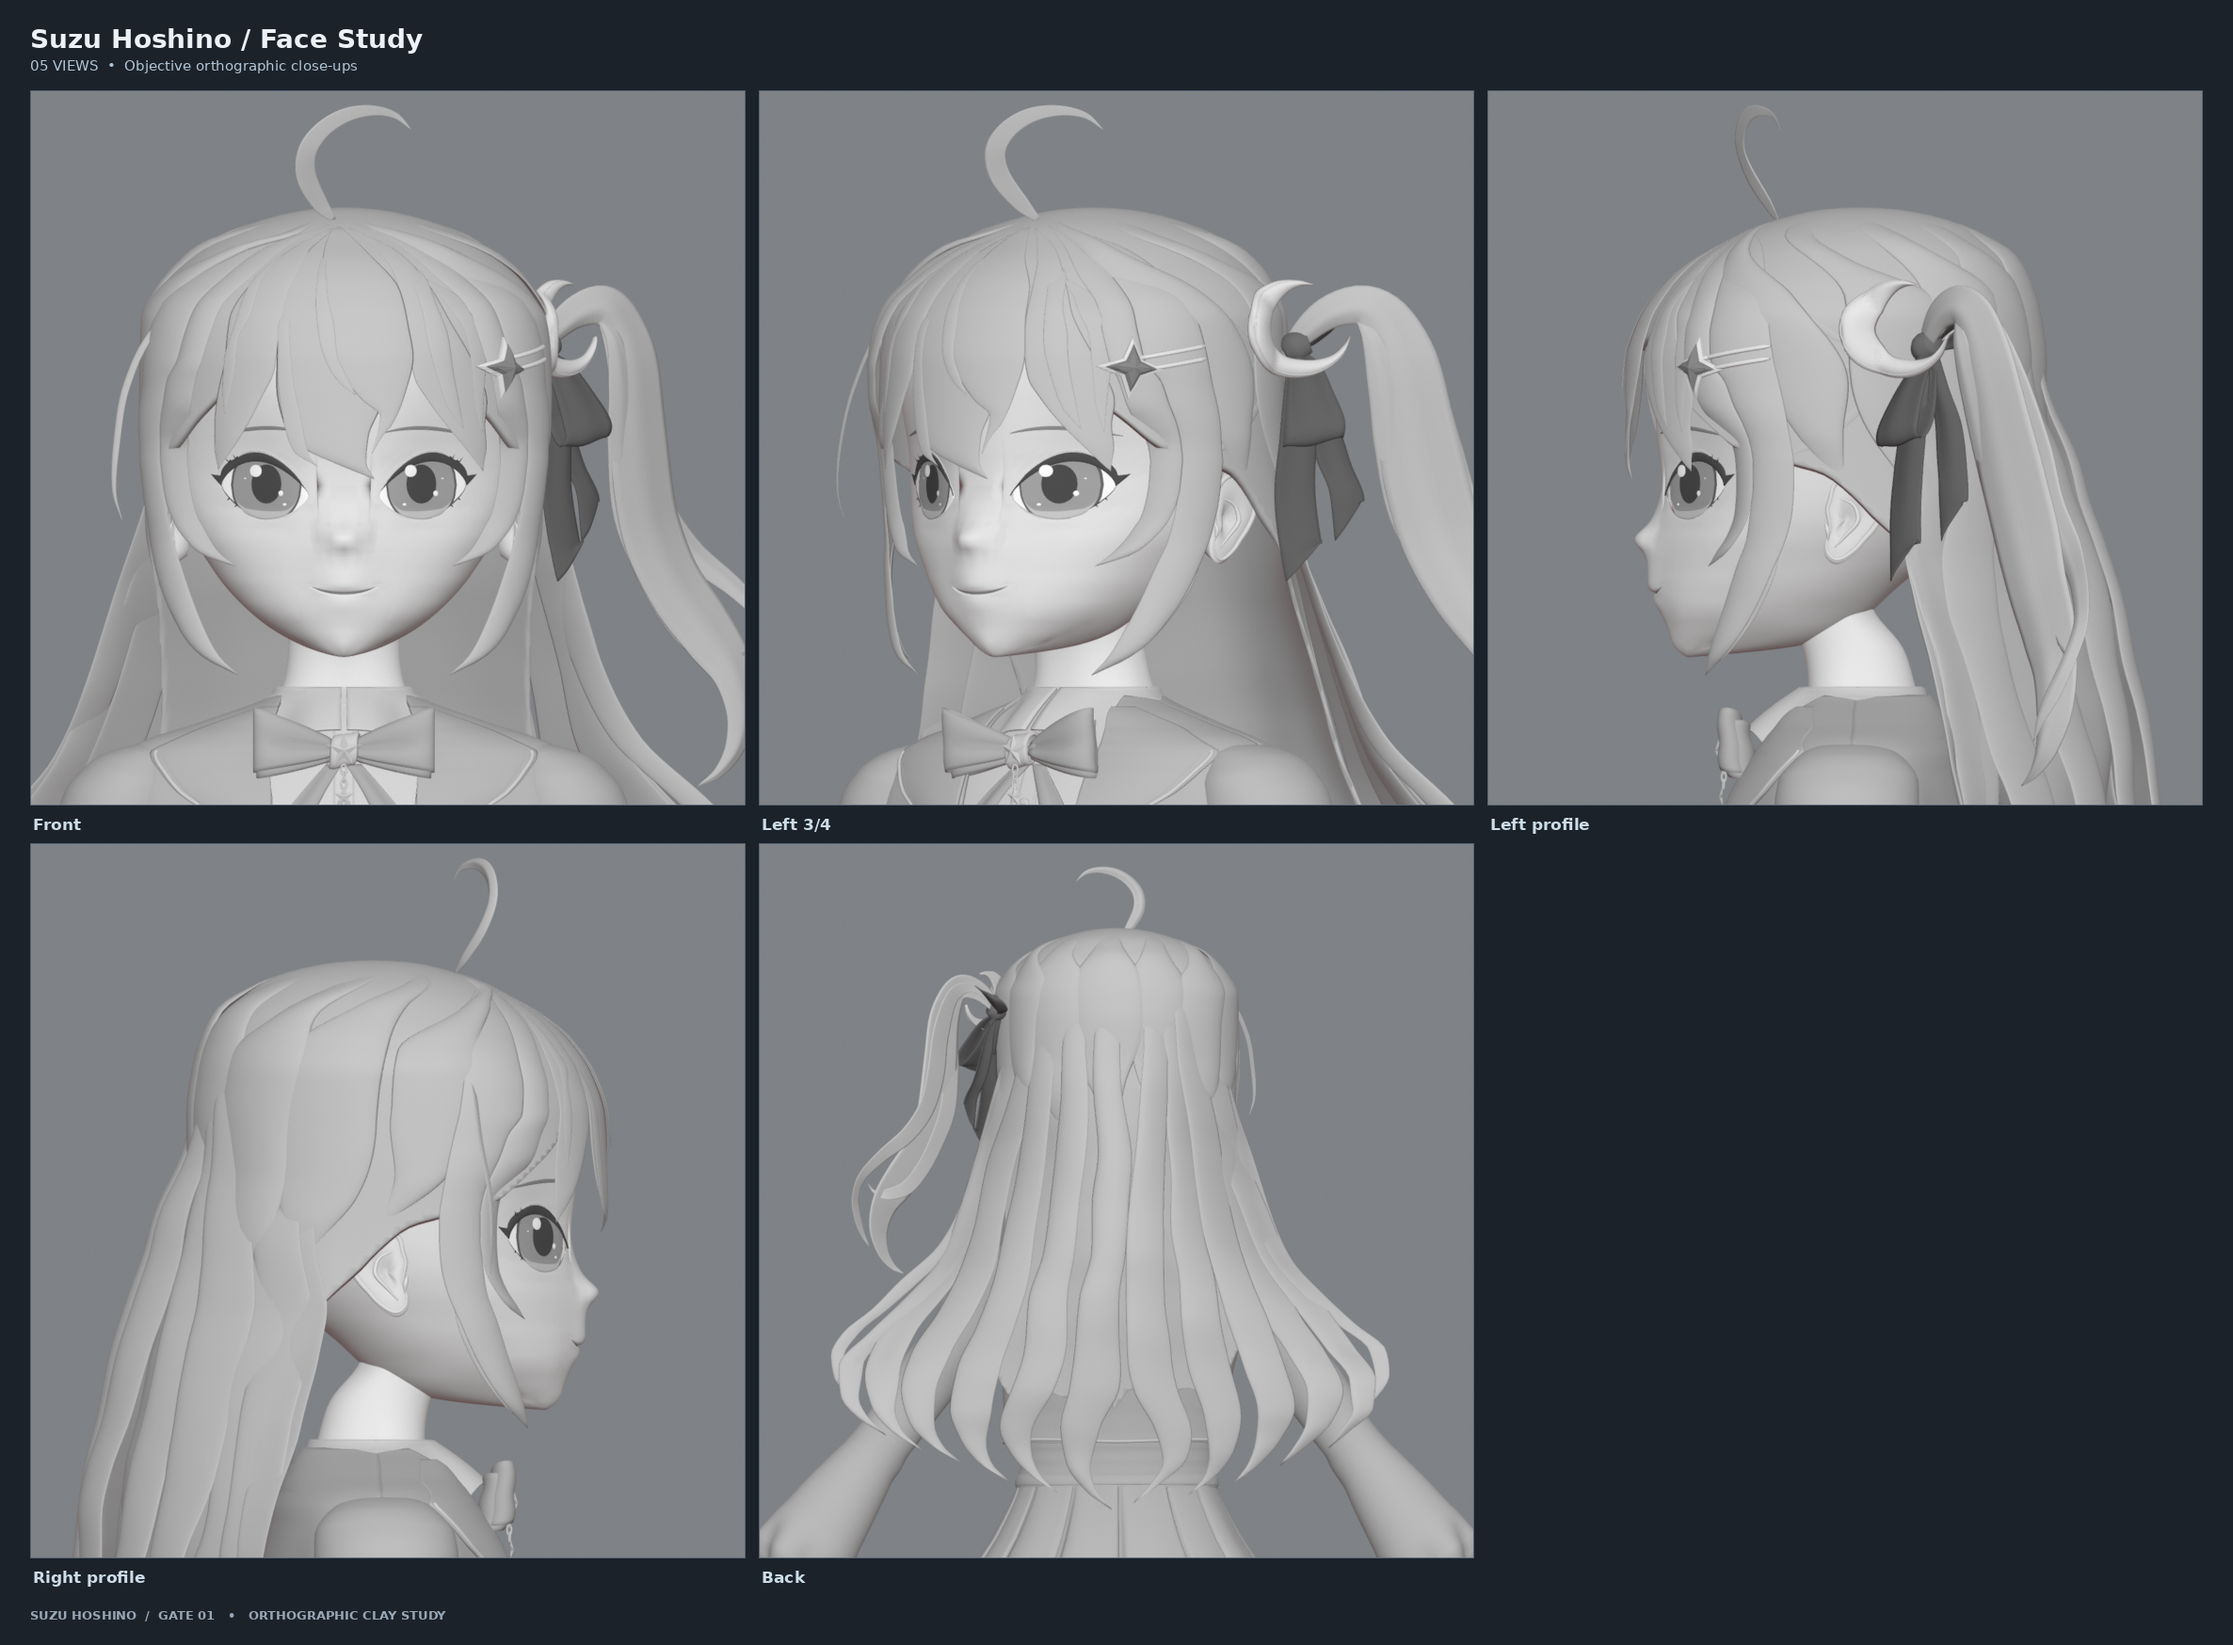
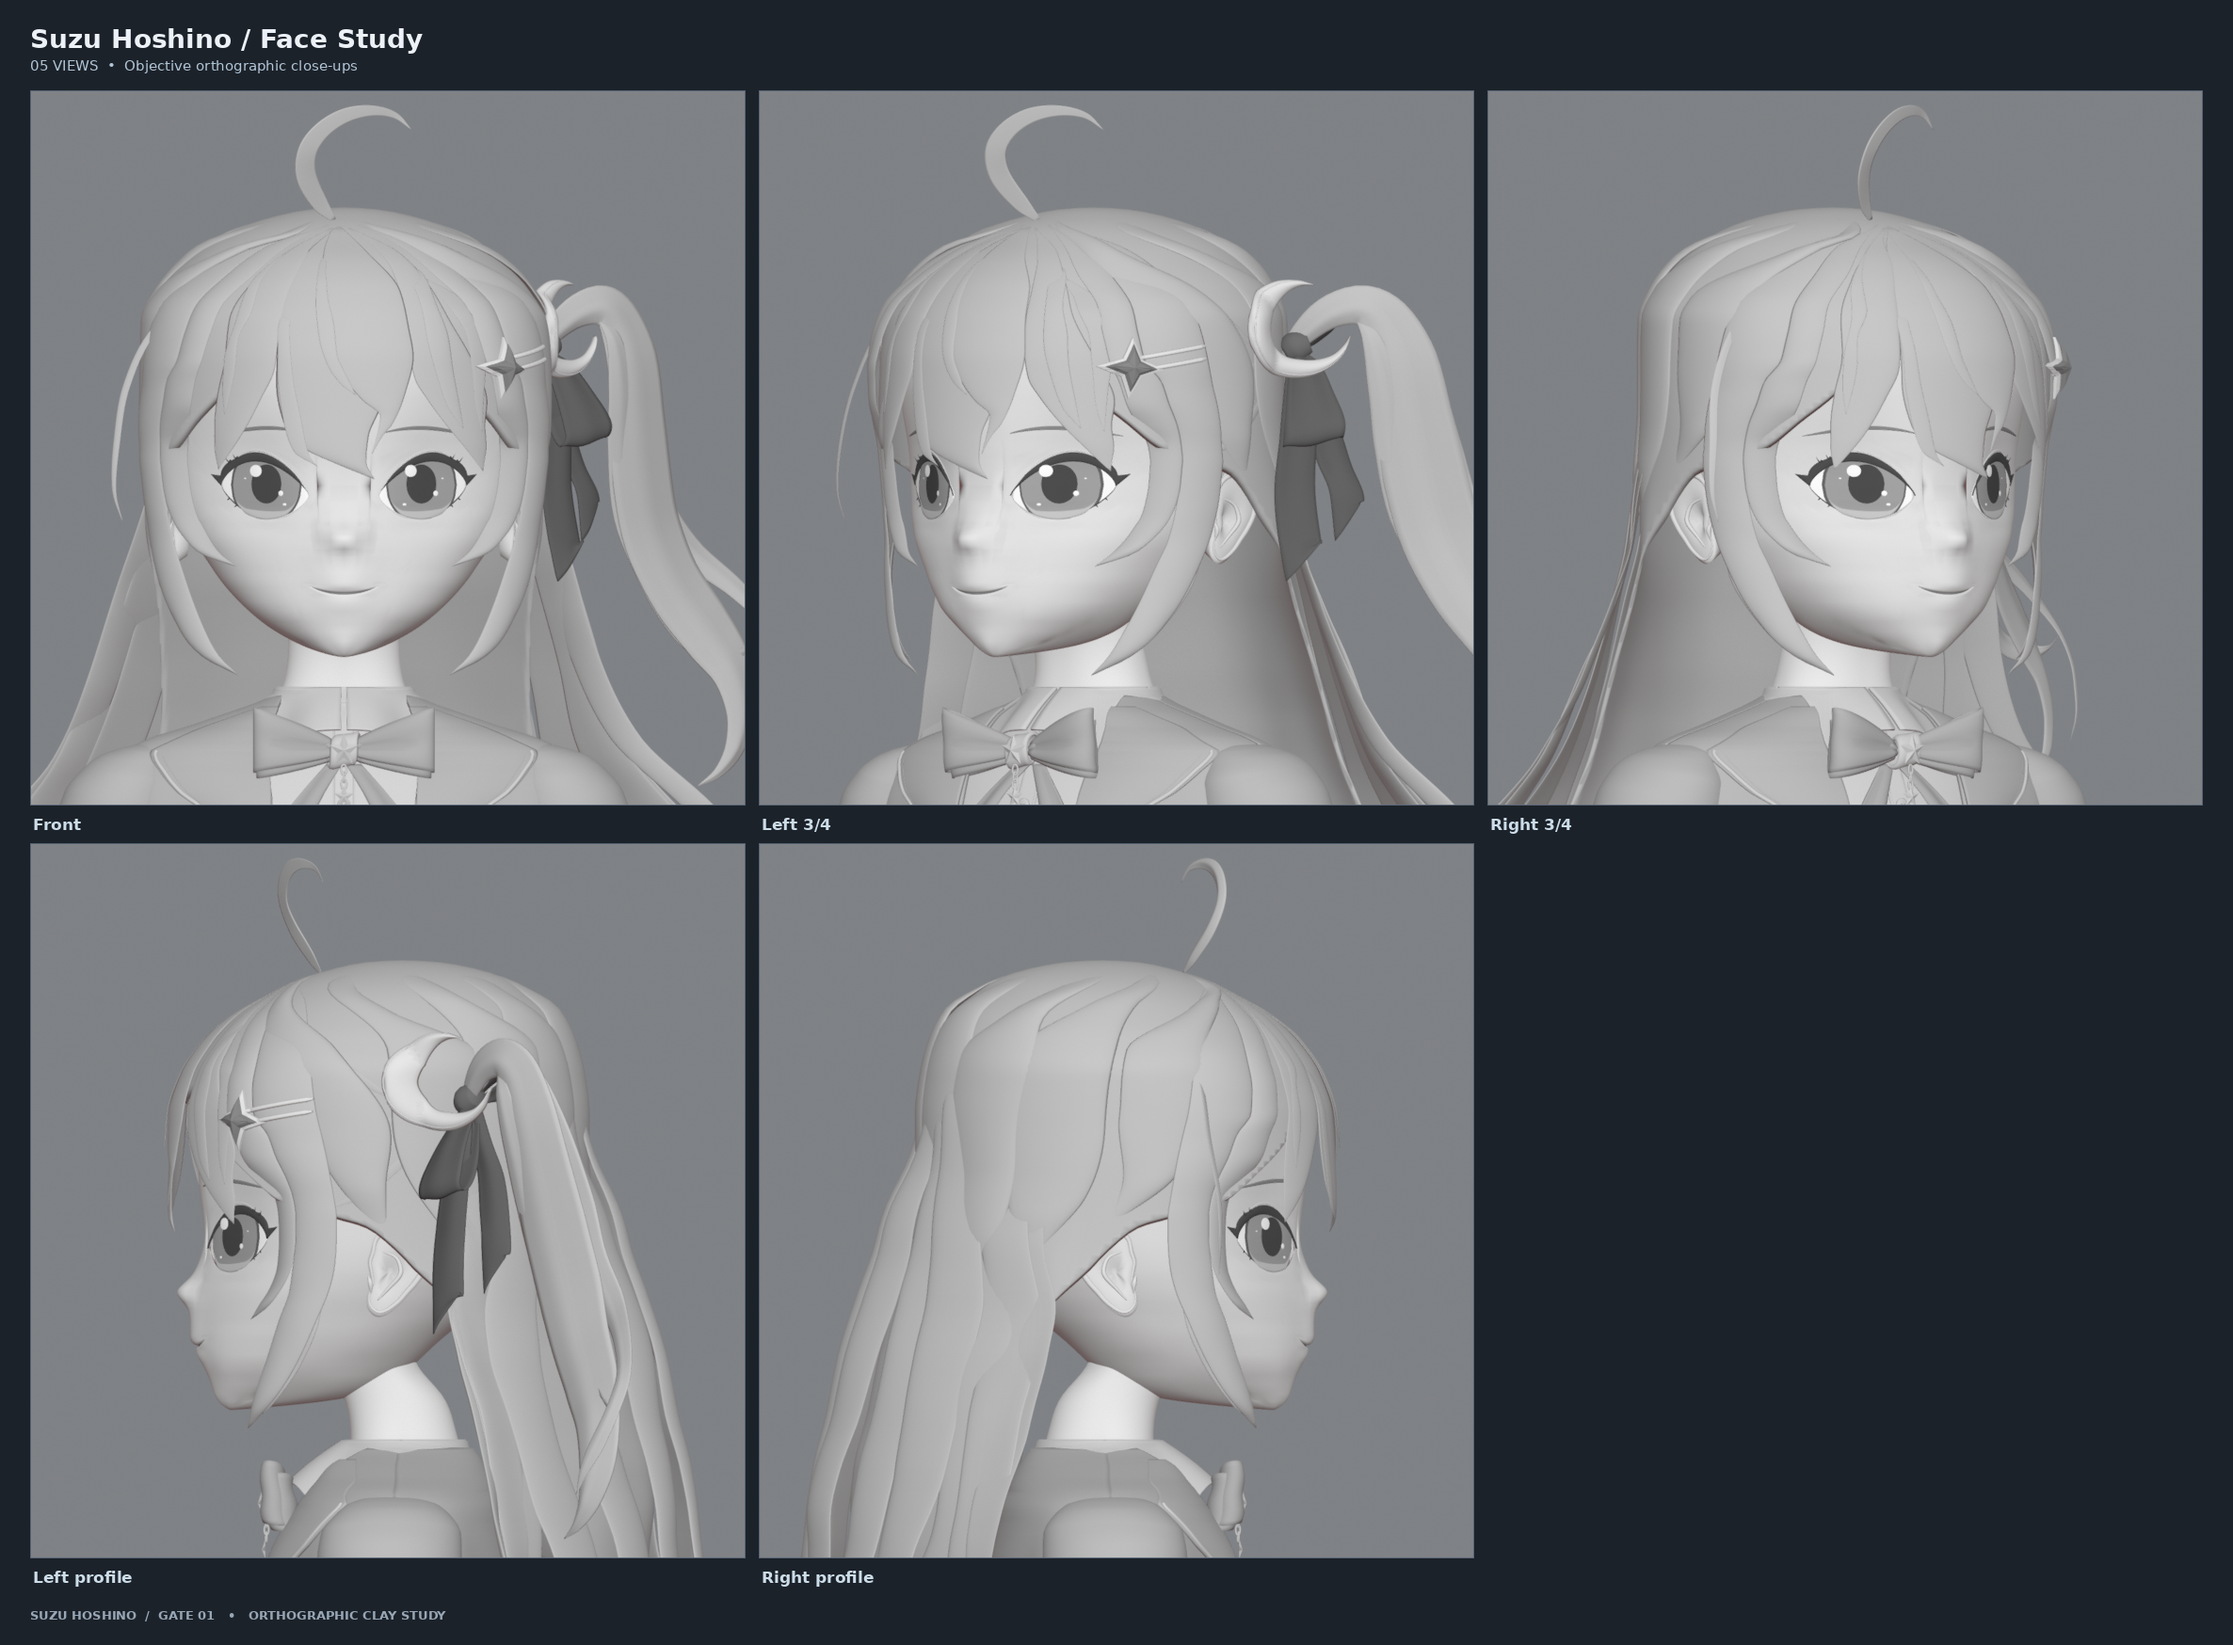
review(gate1): show both three-quarter face angles on the five-view board

diff --git a/tools/gate1/boards.py b/tools/gate1/boards.py
@@ -41,7 +41,7 @@ if len(sys.argv)>3 and sys.argv[3]=='wip':
     sys.exit()
 compose('Suzu Hoshino / Character Turnaround','08 VIEWS  •  Full-body proportions and silhouette',[(f'clay_{i*45:03d}',l) for i,l in enumerate(labels)],4,'turnaround_8view_clay.png',True)
 compose('Suzu Hoshino / Topology','04 VIEWS  •  Mesh-flow overlay',[(f'wire_{i*45:03d}',labels[i]) for i in (0,1,2,4)],2,'turnaround_4view_wireframe.png',True)
-compose('Suzu Hoshino / Face Study','05 VIEWS  •  Objective orthographic close-ups',[(f'face_{a:03d}',label)for a,label in [(0,'Front'),(35,'Left 3/4'),(90,'Left profile'),(270,'Right profile'),(180,'Back')]],3,'face_5view_clay.png')
+compose('Suzu Hoshino / Face Study','05 VIEWS  •  Objective orthographic close-ups',[(f'face_{a:03d}',label)for a,label in [(0,'Front'),(35,'Left 3/4'),(325,'Right 3/4'),(90,'Left profile'),(270,'Right profile')]],3,'face_5view_clay.png')
 compose('Suzu Hoshino / Detail Atlas','06 STUDIES  •  Real geometry, untextured',list(zip(['hands','chest','hairpin','skirt','garter','shoes'],['Five fingers','Bow and orrery brooch','Crescent and blue star','Double skirt layers','Right garter','Mary Jane shoes'])),3,'details_clay.png')
 
 compose('Suzu Hoshino / Oblique Inspection','HIGH / LOW ANGLES  •  Hair overlaps, anchor points and contact',list(zip(['audit_crown','audit_pin','audit_back','audit_shoes'],['High 3/4 crown','Low 3/4 clip and eye','Back shoulder clearance','Shoe contact plane'])),2,'inspection_4view_clay.png')

diff --git a/tools/gate1/gate1.py b/tools/gate1/gate1.py
@@ -94,14 +94,15 @@ if mode in ('wip','test','stills'):
     size=600 if mode=='stills' else 500
     for ang in range(0,360,45) if mode=='stills' else (0,90,270):
         render('clay_%03d'%ang,ang,(0,0,.826),1.76,round(size*.64),size)
+if mode in ('wip','test','stills','facecheck'):
     sh.color_type='MATERIAL'
     sh.show_shadows=False
-    for ang in (0,35,90,270,180) if mode=='stills' else (0,90,270):
-        center=(.028,0,1.447) if ang in (0,35) else (0,.005,1.447)
-        extent=.455
-        if ang==180: center=(0,.09,1.31); extent=.76
-        facepx=max(size,760) if mode=='stills' else size
-        render('face_%03d'%ang,ang,center,extent,facepx,facepx)
+    angles={'stills':(0,35,325,90,270),'facecheck':(325,)}.get(mode,(0,90,270))
+    for ang in angles:
+        centers={0:(.028,0,1.447),35:(.028,0,1.447),325:(0,0,1.447)}
+        center=centers.get(ang,(0,.005,1.447))
+        facepx=760 if mode in ('stills','facecheck') else size
+        render('face_%03d'%ang,ang,center,.455,facepx,facepx)
 if mode in ('stills','wiretest'):
     sh.color_type='MATERIAL'
     sh.show_shadows=False
